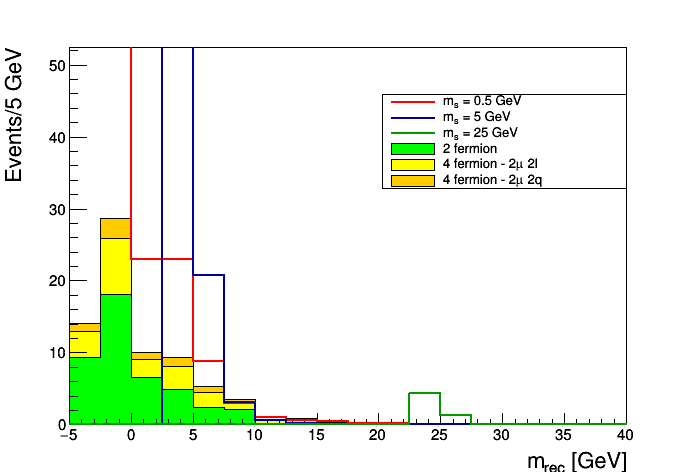
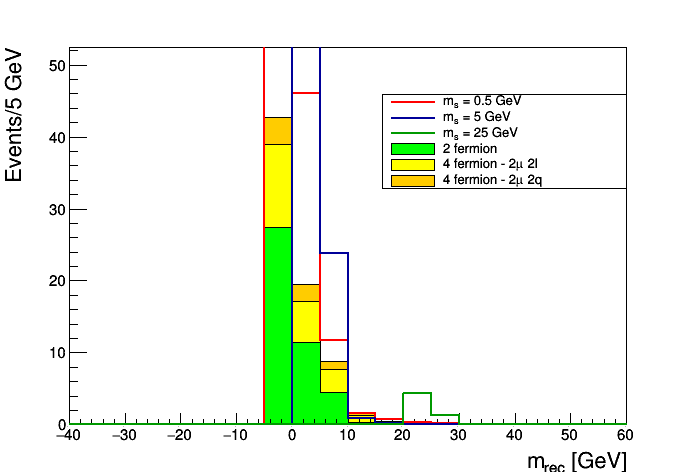
limit plot for IDEA 500 MeV with OPAL binning + MC stats uncertainty

diff --git a/scripts/check_ntuple.py b/scripts/check_ntuple.py
@@ -12,6 +12,28 @@ delphes_path = '/scratch5/arapyan/fcc_ee/scalar_delphes_idea/'
 channels = ['electron', 'muon']
 lumi = 115.4
 output_suffix = 'IDEA_500MeV'
+#bkg_ntuple_filenames = {
+#'0p5':('eeZS_p5:electron-muon:pt-eta-phi-cos_theta-alpha-'
+#       'p_mag-m_inv-m_rec-p_mag_missing-cos_theta_p_missing.root'),
+#'2'  :('eeZS_2:electron-muon:pt-eta-phi-cos_theta-alpha-'
+#       'p_mag-m_inv-m_rec-p_mag_missing-cos_theta_p_missing.root'),
+#'5'  :('eeZS_5:electron-muon:pt-eta-phi-cos_theta-alpha-'
+#       'p_mag-m_inv-m_rec-p_mag_missing-cos_theta_p_missing.root'),
+#'10' :('eeZS_10:electron-muon:pt-eta-phi-cos_theta-alpha-'
+#       'p_mag-m_inv-m_rec-p_mag_missing-cos_theta_p_missing.root'),
+#'15' :('eeZS_15:electron-muon:pt-eta-phi-cos_theta-alpha-'
+#       'p_mag-m_inv-m_rec-p_mag_missing-cos_theta_p_missing.root'),
+#'25' :('eeZS_25:electron-muon:pt-eta-phi-cos_theta-alpha-'
+#       'p_mag-m_inv-m_rec-p_mag_missing-cos_theta_p_missing.root')
+#}      
+#bkg_ntuple_filenames = {
+#'2f'       :('ee2fermion_mutau:electron-muon:pt-eta-phi-cos_theta-'
+#             'alpha-p_mag-m_inv-m_rec-p_mag_missing-cos_theta_p_missing.root'),
+#'4f' :('ee4lepton_mutau:electron-muon:pt-eta-phi-cos_theta-'
+#             'alpha-p_mag-m_inv-m_rec-p_mag_missing-cos_theta_p_missing.root'),
+#'4fqq' :('ee4lepquark_mutau:electron-muon:pt-eta-phi-cos_theta-'
+#             'alpha-p_mag-m_inv-m_rec-p_mag_missing-cos_theta_p_missing.root')
+#}
 sig_ntuple_filenames = {
 '0p5':('eeZS_p5_photon500:electron-muon:pt-eta-phi-cos_theta-alpha-'
        'p_mag-m_inv-m_rec-p_mag_missing-cos_theta_p_missing.root'),
@@ -34,7 +56,6 @@ bkg_ntuple_filenames = {
 '4fqq' :('ee4lepquark_mutau_photon500:electron-muon:pt-eta-phi-cos_theta-'
              'alpha-p_mag-m_inv-m_rec-p_mag_missing-cos_theta_p_missing.root')
 }
-
 # get the full paths to the ntuple files 
 sig_ntuple_filepaths = {}
 bkg_ntuple_filepaths = {}
@@ -1487,9 +1508,9 @@ c_muon_rec = ROOT.TCanvas()
 c_muon_rec.cd()
 hs_sig_mu_rec = ROOT.THStack("hs_sig_mu_rec","")
 hs_bkg_mu_rec = ROOT.THStack("hs_bkg_mu_rec","")
-mu_rec_xlow = -5
-mu_rec_xhigh = 40
-mu_rec_nbins = 18
+mu_rec_xlow = -40
+mu_rec_xhigh = 60
+mu_rec_nbins = 20 
 mu_rec_descrp = "Z #rightarrow #mu^{+}#mu^{-} vs. m_{mumu} @ 91.2 GeV"
 hist_mu_0p5_rec = ROOT.TH1F("mu_0p5_m_rec",
 mu_rec_descrp, mu_rec_nbins, mu_rec_xlow, mu_rec_xhigh)
